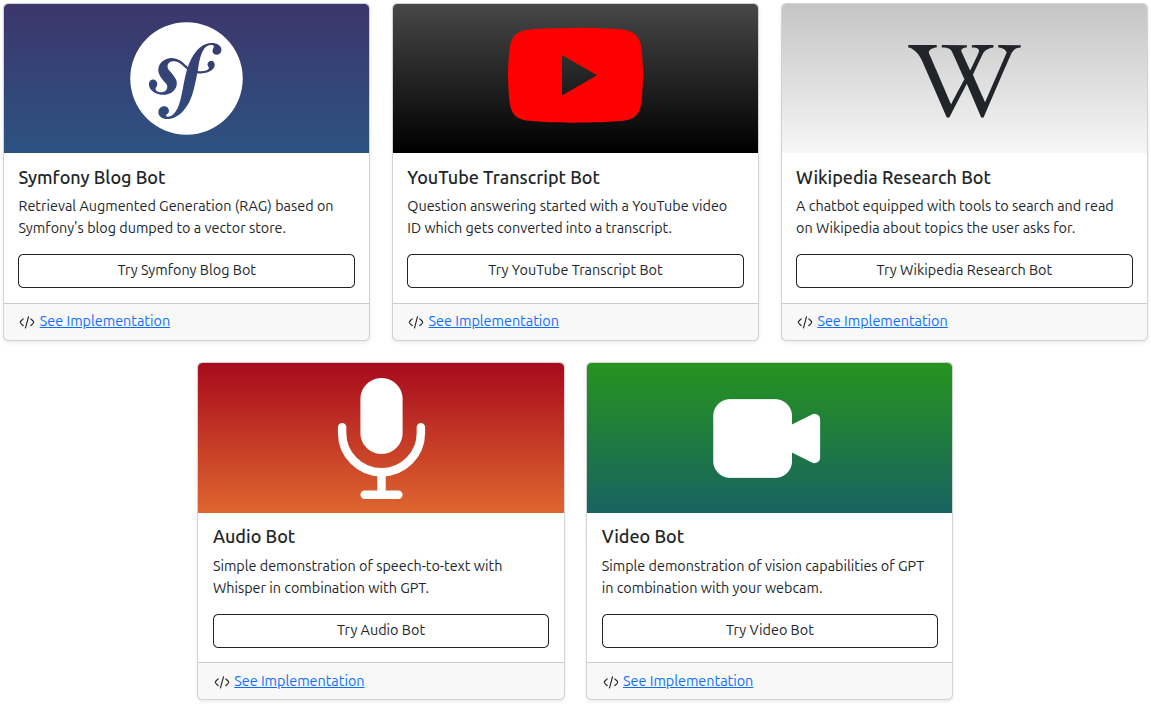
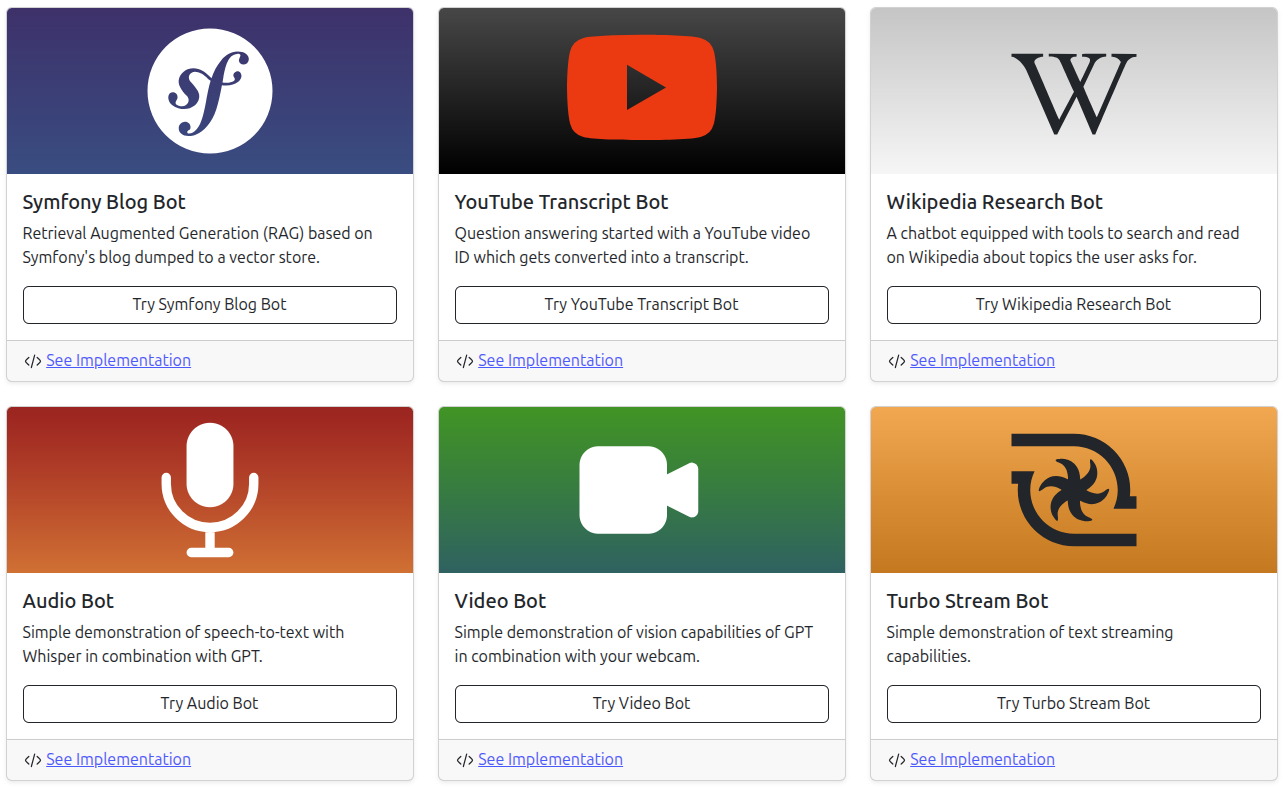
[Demo] Add an example with streaming

diff --git a/demo/assets/styles/stream.css b/demo/assets/styles/stream.css
@@ -1,0 +1,33 @@
+.stream {
+    body&, .card-img-top {
+        background: #ececec;
+        background: linear-gradient(0deg, #d26f15 0%, #ff9f4c 100%);
+    }
+
+    &.chat {
+        .user-message {
+            background: #ffffff;
+        }
+
+        .bot-message {
+            background: #ffffff;
+
+            a {
+                color: #3e2926;
+            }
+        }
+
+        .avatar {
+            &.bot, &.user {
+                outline: 1px solid #eaeaea;
+                background: #eaeaea;
+            }
+        }
+
+        footer {
+            &, & a {
+                color: var(--bs-light);
+            }
+        }
+    }
+}

diff --git a/demo/assets/app.js b/demo/assets/app.js
@@ -3,6 +3,7 @@ import 'bootstrap/dist/css/bootstrap.min.css';
 import './styles/app.css';
 import './styles/audio.css';
 import './styles/blog.css';
+import './styles/stream.css';
 import './styles/youtube.css';
 import './styles/video.css';
 import './styles/wikipedia.css';

diff --git a/demo/src/Stream/TwigComponent.php b/demo/src/Stream/TwigComponent.php
@@ -1,0 +1,94 @@
+<?php
+
+/*
+ * This file is part of the Symfony package.
+ *
+ * (c) Fabien Potencier <fabien@symfony.com>
+ *
+ * For the full copyright and license information, please view the LICENSE
+ * file that was distributed with this source code.
+ */
+
+namespace App\Stream;
+
+use Symfony\AI\Platform\Message\MessageInterface;
+use Symfony\Bundle\FrameworkBundle\Controller\AbstractController;
+use Symfony\Component\HttpFoundation\EventStreamResponse;
+use Symfony\Component\HttpFoundation\Request;
+use Symfony\Component\HttpFoundation\ServerEvent;
+use Symfony\Component\HttpFoundation\Session\Session;
+use Symfony\Component\HttpFoundation\Session\Storage\MockArraySessionStorage;
+use Symfony\UX\LiveComponent\Attribute\AsLiveComponent;
+use Symfony\UX\LiveComponent\Attribute\LiveAction;
+use Symfony\UX\LiveComponent\Attribute\LiveProp;
+use Symfony\UX\LiveComponent\DefaultActionTrait;
+
+#[AsLiveComponent('stream')]
+final class TwigComponent extends AbstractController
+{
+    use DefaultActionTrait;
+
+    #[LiveProp(writable: true)]
+    public ?string $message = null;
+    public bool $stream = false;
+
+    public function __construct(
+        private readonly Chat $chat,
+    ) {
+    }
+
+    /**
+     * @return MessageInterface[]
+     */
+    public function getMessages(): array
+    {
+        return $this->chat->loadMessages()->withoutSystemMessage()->getMessages();
+    }
+
+    #[LiveAction]
+    public function submit(): void
+    {
+        if (!$this->message) {
+            return;
+        }
+
+        $this->chat->submitMessage($this->message);
+        $this->message = null;
+        $this->stream = true;
+    }
+
+    #[LiveAction]
+    public function reset(): void
+    {
+        $this->chat->reset();
+    }
+
+    public function streamContent(Request $request): EventStreamResponse
+    {
+        $messages = $this->chat->loadMessages();
+
+        $actualSession = $request->getSession();
+
+        // Overriding session will prevent the framework calling save() on the actual session.
+        // This fixes "Failed to start the session because headers have already been sent" error.
+        $request->setSession(new Session(new MockArraySessionStorage()));
+
+        return new EventStreamResponse(function () use ($request, $actualSession, $messages) {
+            $request->setSession($actualSession);
+            $response = $this->chat->getAssistantResponse($messages);
+
+            $thinking = true;
+            foreach ($response as $chunk) {
+                // Remove "Thinking..." when we receive something
+                if ($thinking && trim($chunk)) {
+                    $thinking = false;
+                    yield new ServerEvent(explode("\n", $this->renderBlockView('_stream.html.twig', 'start')));
+                }
+
+                yield new ServerEvent(explode("\n", $this->renderBlockView('_stream.html.twig', 'partial', ['part' => $chunk])));
+            }
+
+            yield new ServerEvent(explode("\n", $this->renderBlockView('_stream.html.twig', 'end', ['message' => $response->getReturn()])));
+        });
+    }
+}

diff --git a/demo/src/Stream/Chat.php b/demo/src/Stream/Chat.php
@@ -1,0 +1,80 @@
+<?php
+
+/*
+ * This file is part of the Symfony package.
+ *
+ * (c) Fabien Potencier <fabien@symfony.com>
+ *
+ * For the full copyright and license information, please view the LICENSE
+ * file that was distributed with this source code.
+ */
+
+namespace App\Stream;
+
+use Symfony\AI\Agent\AgentInterface;
+use Symfony\AI\Platform\Message\AssistantMessage;
+use Symfony\AI\Platform\Message\Message;
+use Symfony\AI\Platform\Message\MessageBag;
+use Symfony\AI\Platform\Message\UserMessage;
+use Symfony\Component\DependencyInjection\Attribute\Autowire;
+use Symfony\Component\HttpFoundation\RequestStack;
+
+final class Chat
+{
+    private const SESSION_KEY = 'stream-chat';
+
+    public function __construct(
+        private readonly RequestStack $requestStack,
+        #[Autowire(service: 'ai.agent.stream')]
+        private readonly AgentInterface $agent,
+    ) {
+    }
+
+    public function loadMessages(): MessageBag
+    {
+        return $this->requestStack->getSession()->get(self::SESSION_KEY, new MessageBag());
+    }
+
+    public function submitMessage(string $message): UserMessage
+    {
+        $messages = $this->loadMessages();
+
+        $userMessage = Message::ofUser($message);
+        $messages->add($userMessage);
+
+        $this->saveMessages($messages);
+
+        return $userMessage;
+    }
+
+    /**
+     * @return \Generator<int, string, void, AssistantMessage>
+     */
+    public function getAssistantResponse(MessageBag $messages): \Generator
+    {
+        $stream = $this->agent->call($messages, ['stream' => true])->getContent();
+        \assert(is_iterable($stream));
+
+        $response = '';
+        foreach ($stream as $chunk) {
+            yield $chunk;
+            $response .= $chunk;
+        }
+
+        $assistantMessage = Message::ofAssistant($response);
+        $messages->add($assistantMessage);
+        $this->saveMessages($messages);
+
+        return $assistantMessage;
+    }
+
+    public function reset(): void
+    {
+        $this->requestStack->getSession()->remove(self::SESSION_KEY);
+    }
+
+    private function saveMessages(MessageBag $messages): void
+    {
+        $this->requestStack->getSession()->set(self::SESSION_KEY, $messages);
+    }
+}
